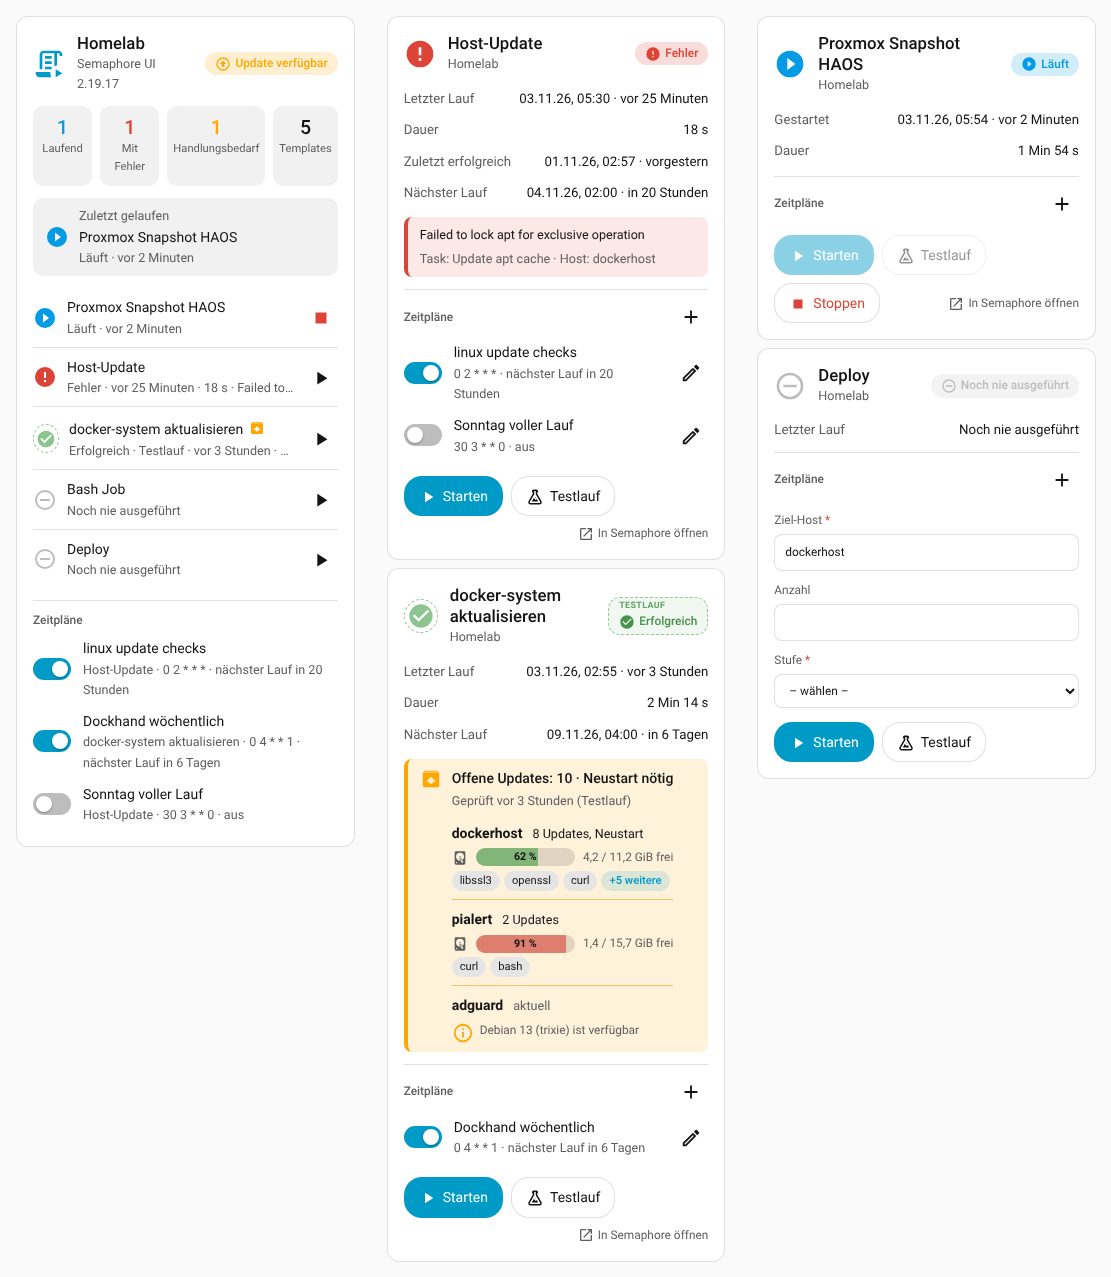
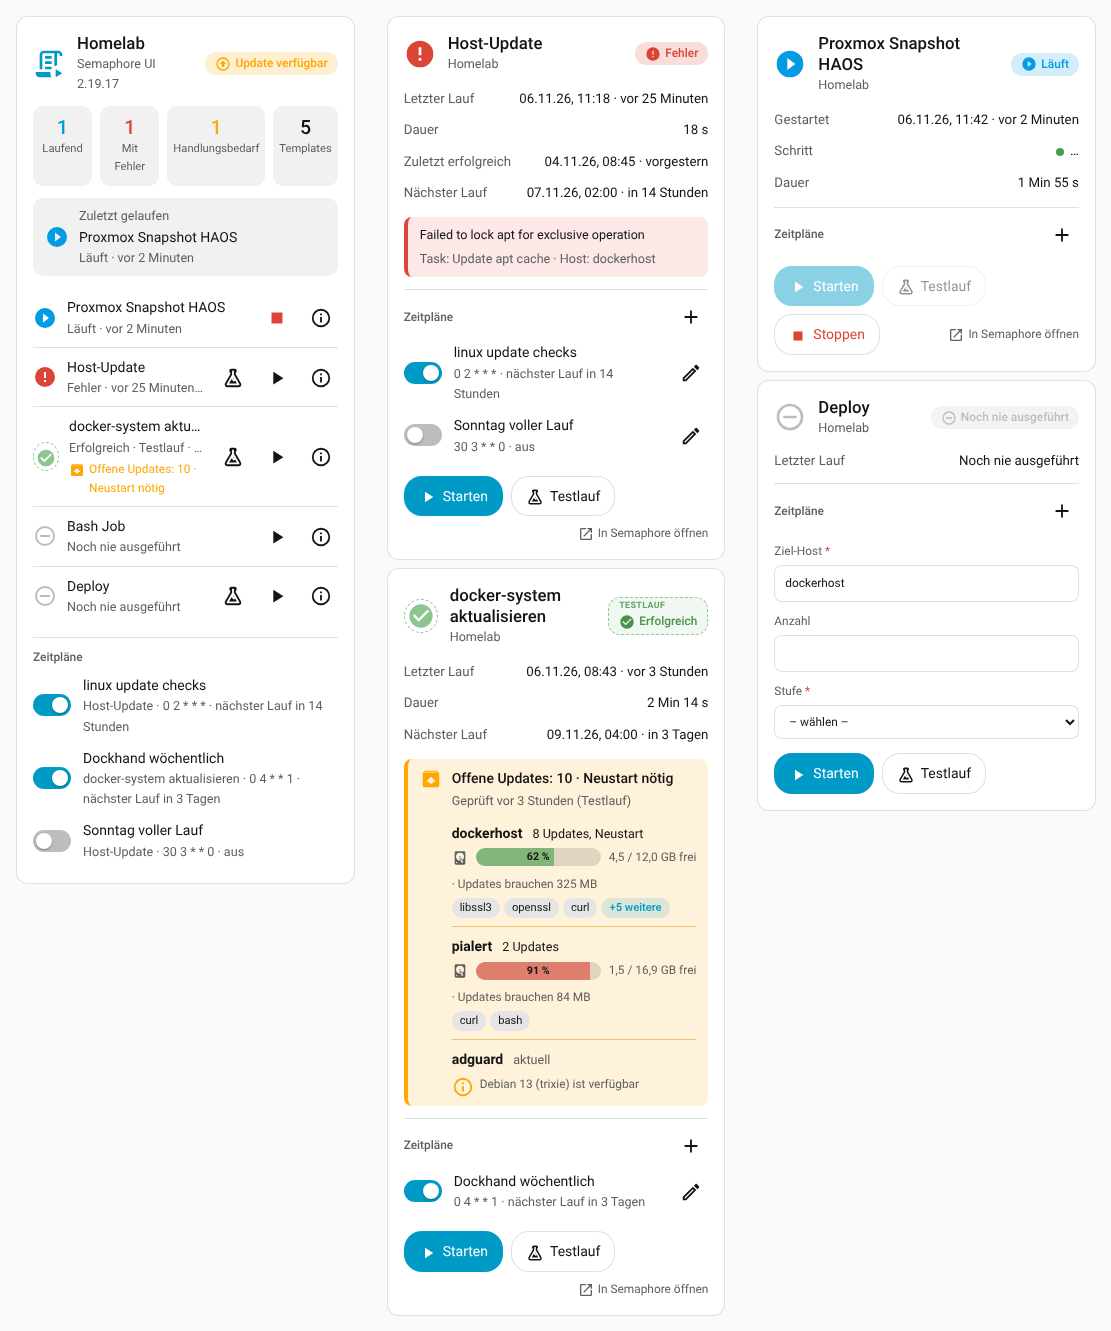
docs: Screenshots neu erzeugt (MB/GB), neues Bild: aufgeklappter Eintrag der Projekt-Karte
Claude-Session: https://claude.ai/code/session_01RxcXBPCZy8kiUCVNSxwdkB

diff --git a/tests/browser/check_cards.py b/tests/browser/check_cards.py
@@ -518,6 +518,12 @@ def test_docs_screenshots(playwright) -> None:
                 time.sleep(0.4)
             dashboard_shot(page, f"dashboard{suffix}")
             taken.append(f"dashboard{suffix}")
+            if not suffix:
+                # Eintrag der Projekt-Karte aufgeklappt (Details, Platte je Host)
+                project = page.locator("semaphore-ui-project-card").first
+                project.locator(".entry", has_text="docker-system").locator(".main").click()
+                time.sleep(0.5)
+                take(project, "project-card-expanded")
         finally:
             browser.close()
     browser, page = open_page(playwright, width=1400, height=1700, path="/dashboard-sem-test/1")

diff --git a/README.md b/README.md
@@ -44,6 +44,10 @@ Die Bilder entstehen im Browser-Test aus Beispieldaten (siehe [Tests](#tests)); 
 |---|---|---|---|---|
 | ![Läuft](docs/screenshots/template-card-running.png) | ![Survey](docs/screenshots/template-card-survey.png) | ![Versionen](docs/screenshots/project-card-versions.png) | ![Nur Benötigtes](docs/screenshots/project-card-only-needed.png) | ![Pakete aufgeklappt](docs/screenshots/template-card-updates-open.png) |
 
+| Projekt-Karte: Eintrag aufgeklappt (Klick auf den Namen) |
+|---|
+| ![Eintrag aufgeklappt](docs/screenshots/project-card-expanded.png) |
+
 </details>
 
 ## Installation

diff --git a/README_en.md b/README_en.md
@@ -46,6 +46,10 @@ The screenshots show the German interface; the cards and entities follow your Ho
 |---|---|---|---|---|
 | ![Running](docs/screenshots/template-card-running.png) | ![Survey](docs/screenshots/template-card-survey.png) | ![Versions](docs/screenshots/project-card-versions.png) | ![Only what is needed](docs/screenshots/project-card-only-needed.png) | ![Packages expanded](docs/screenshots/template-card-updates-open.png) |
 
+| Project card: entry unfolded (click on the name) |
+|---|
+| ![Entry unfolded](docs/screenshots/project-card-expanded.png) |
+
 </details>
 
 ## Installation
